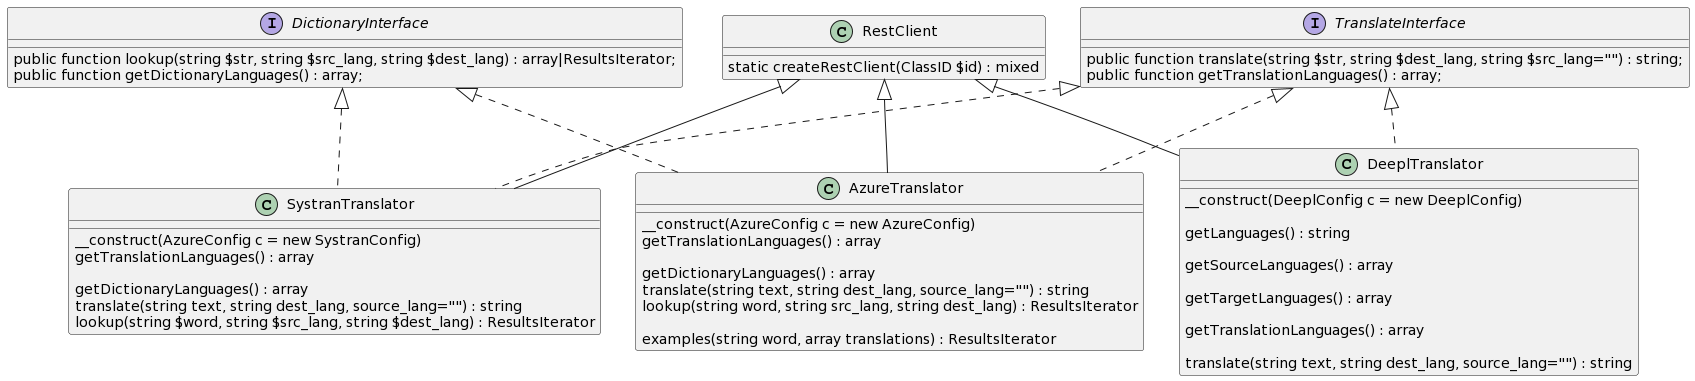
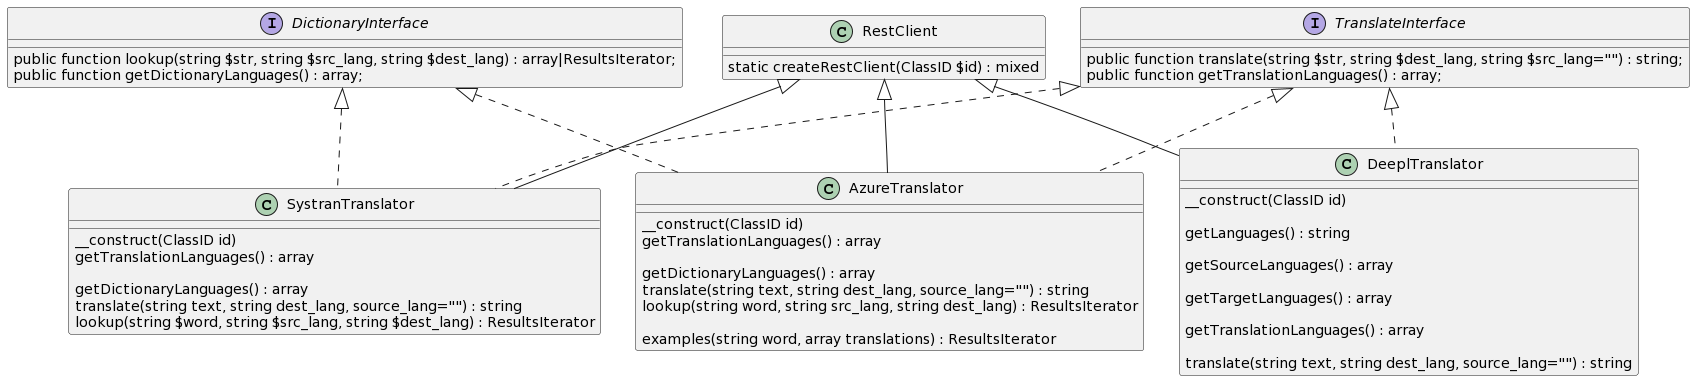
updates

Changed region(s): [[0.092, 0.6063, 0.2454, 0.664], [0.7363, 0.4908, 0.9204, 0.5486], [0.4295, 0.5774, 0.5829, 0.6063]]

diff --git a/README.md b/README.md
@@ -60,15 +60,15 @@ interface DictionaryInterface {
    public function getDictionaryLanguages() : array; 
 }
 
-
 class RestClient {
 
    static createRestClient(ClassID $id) : mixed
+   __construct(ClassID id)
 }
 
 class AzureTranslator extends RestClient implements DictionaryInterface, TranslateInterface {
 
-   __construct(AzureConfig c = new AzureConfig)
+   __construct(ClassID id)
    
    getTranslationLanguages() : array
 
@@ -76,14 +76,14 @@ class AzureTranslator extends RestClient implements DictionaryInterface, Transla
     
    translate(string text, string dest_lang, source_lang="") : string 
    
-   lookup(string word, string src_lang, string dest_lang) :  ResultsIterator
+   lookup(string word, string src_lang, string dest_lang) : ResultsIterator
 
    examples(string word, array translations) : ResultsIterator
 }
 
 class DeeplTranslator extends RestClient implements TranslateInterface {
    
-   __construct(DeeplConfig c = new DeeplConfig)
+   __construct(ClassID id)
    
    getLanguages() : string
 
@@ -98,7 +98,7 @@ class DeeplTranslator extends RestClient implements TranslateInterface {
 
 class SystranTranslator extends RestClient implements DictionaryInterface, TranslateInterface {
 
-   __construct(AzureConfig c = new SystranConfig)
+   __construct(ClassID id)
    
    getTranslationLanguages() : array
 
